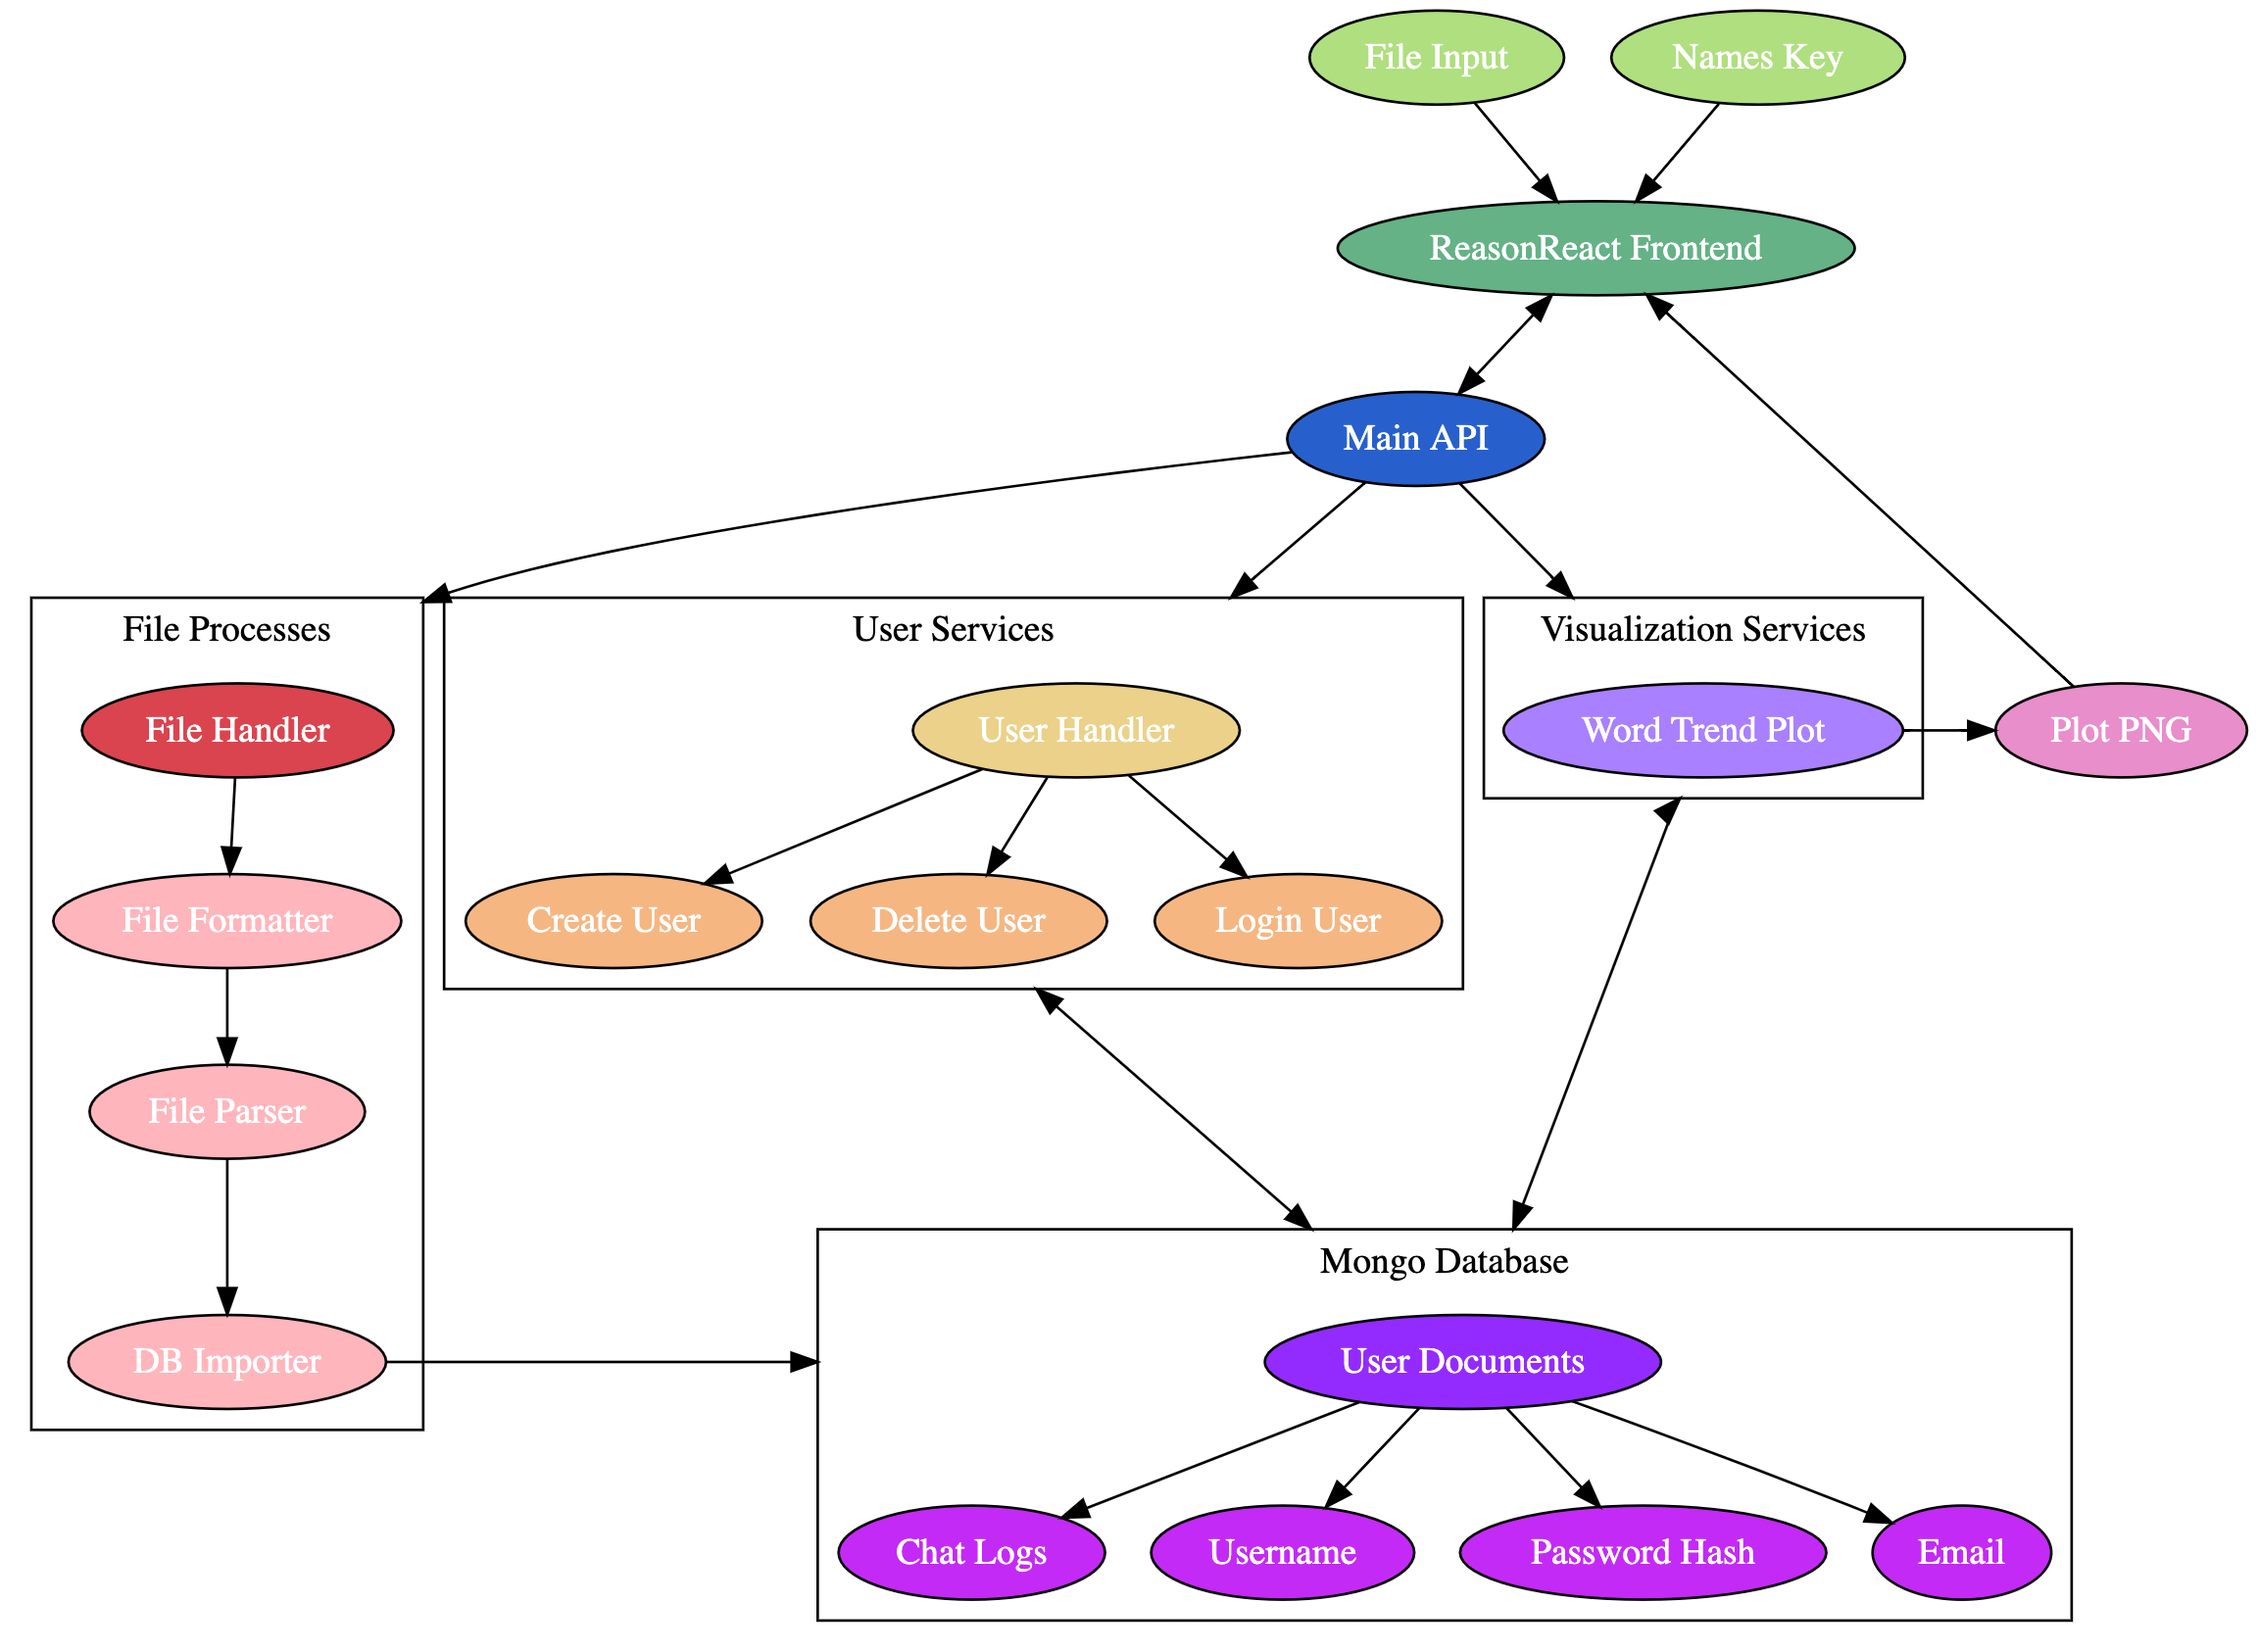
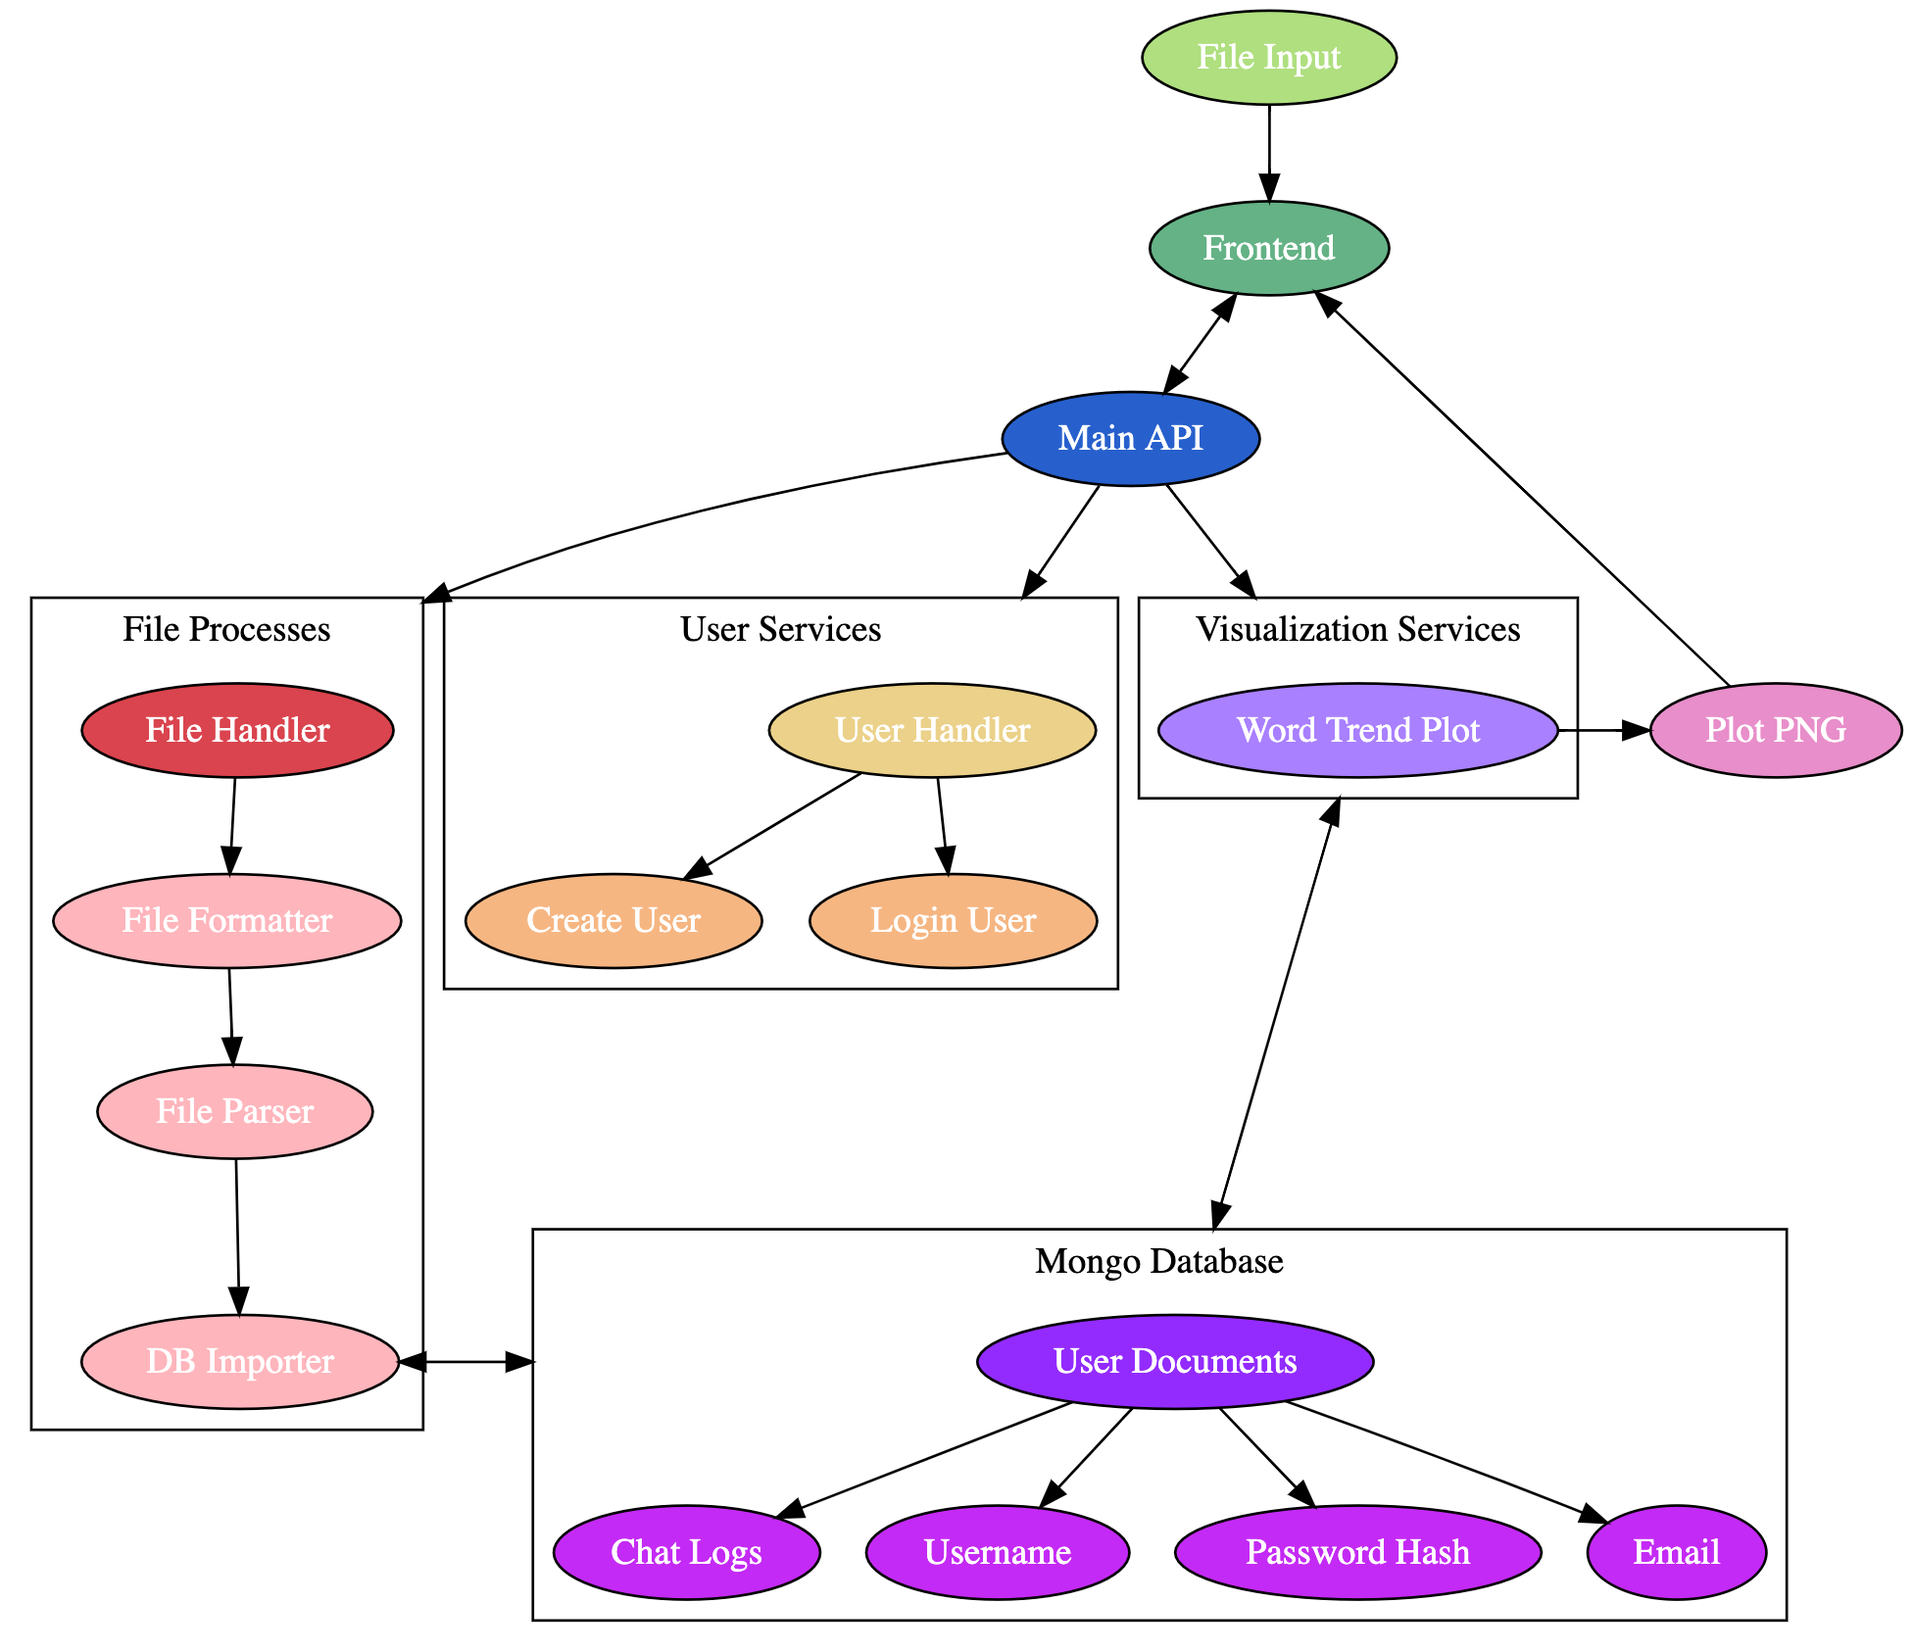
updated readme

diff --git a/README.md b/README.md
@@ -13,11 +13,11 @@ Web-based tool that can process, parse, and query a chat log file from a WhatsAp
 ## Project Structure
 
 - ### Frontend
- Clientside service was built with Reason using the BuckleScript JS compiler.
+ Clientside service was built with Bootstrap 4 and JS.
 - ### File processing
-Raw .txt formatter written in shell script, parser written in Go.
+Raw .txt formatter written in python, parser written in Go.
 - ### Backend Services
-Website served using Ubuntu + Nginx on a remote server. Serverside processes were written entirely in Python3. API endpoints written using Flask. Data visualizations and plots use Matplotlib and Pandas DataFrames, line of best fit uses Numpy.
+Website served using Nginx. Serverside processes were written entirely in Python3. API endpoints written using Flask. Data visualizations and plots use Matplotlib and Pandas DataFrames, line of best fit uses Numpy.
 - ### Database
 All data stored in a local MongoDB instance, using the Pymongo driver for queries and insertions. User passwords were hashed + salted using bcrypt.
 
